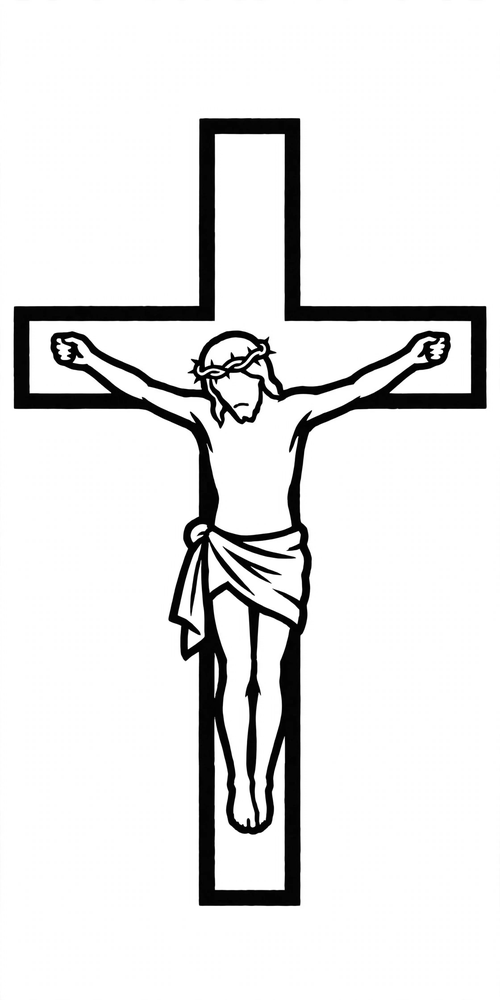
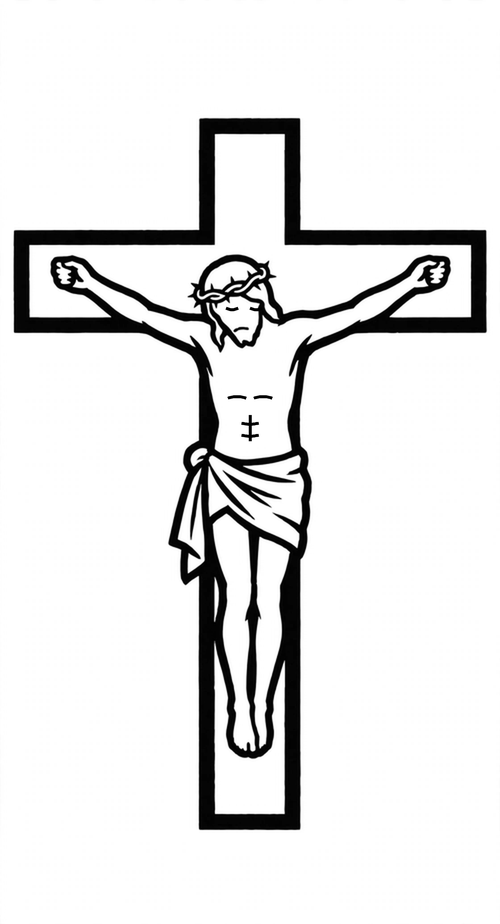
Holy Lighter: trim picker to 11 templates (remove Sacred Heart of Jesus, dove, rosary, Sacred Heart symbol, Jesus I Trust in You); crucifix redrawn with subtle eyes/abs + shorter cross top stub; listing copy refreshed to match

Changed region(s): [[0.0, 0.2424, 0.99, 0.8485], [0.39, 0.0909, 0.6, 0.1515], [0.39, 0.8788, 0.6, 0.9091]]

diff --git a/server.py b/server.py
@@ -1418,16 +1418,16 @@ def seed():
              "/img/products/lighter-religious-crucifix.jpg",
              "A Zippo-style lighter laser engraved with the design of your choice: "
              "saints (Crucifix, Virgin Mary, Carlo Acutis, Saint Joseph, Saint Teresa "
-             "of Avila, Sacred Heart of Jesus), symbols (cross, Holy Spirit dove, "
-             "ichthys, Chi Rho, rosary, Lamb of God, Sacred Heart) and Bible passages "
+             "of Avila), symbols (cross, "
+             "ichthys, Chi Rho, Lamb of God) and Bible passages "
              "\u2014 simple bold-line engravings that read clearly \u2014 or upload your "
              "own image and we engrave it for you. In its gift case, in chrome, blue "
              "or black.",
              "Un briquet style Zippo grav\u00e9 au laser avec le motif de votre choix : "
              "des saints (Crucifix, Vierge Marie, Carlo Acutis, saint Joseph, sainte "
-             "Th\u00e9r\u00e8se d'Avila, Sacr\u00e9-C\u0153ur de J\u00e9sus), des symboles "
-             "(croix, colombe du Saint-Esprit, ichthys, Chi Rho, chapelet, Agneau de "
-             "Dieu, Sacr\u00e9-C\u0153ur) et des passages bibliques \u2014 des gravures en "
+             "Th\u00e9r\u00e8se d'Avila), des symboles "
+             "(croix, ichthys, Chi Rho, Agneau de "
+             "Dieu) et des passages bibliques \u2014 des gravures en "
              "lignes simples et bien lisibles \u2014 ou t\u00e9l\u00e9versez votre propre "
              "image et nous la gravons pour vous. Dans son coffret cadeau, en chrome, "
              "bleu ou noir.",
@@ -1447,22 +1447,32 @@ def seed():
         "WHERE id='holy-lighter' AND description=?",
         ("A Zippo-style lighter laser engraved with the design of your choice: "
          "saints (Crucifix, Virgin Mary, Carlo Acutis, Saint Joseph, Saint Teresa "
-         "of Avila, Sacred Heart of Jesus), symbols (cross, Holy Spirit dove, "
-         "ichthys, Chi Rho, rosary, Lamb of God, Sacred Heart) and Bible passages "
+         "of Avila), symbols (cross, "
+         "ichthys, Chi Rho, Lamb of God) and Bible passages "
          "\u2014 simple bold-line engravings that read clearly \u2014 or upload your "
          "own image and we engrave it for you. In its gift case, in chrome, blue "
          "or black.",
          "Un briquet style Zippo grav\u00e9 au laser avec le motif de votre choix : "
          "des saints (Crucifix, Vierge Marie, Carlo Acutis, saint Joseph, sainte "
-         "Th\u00e9r\u00e8se d'Avila, Sacr\u00e9-C\u0153ur de J\u00e9sus), des symboles "
-         "(croix, colombe du Saint-Esprit, ichthys, Chi Rho, chapelet, Agneau de "
-         "Dieu, Sacr\u00e9-C\u0153ur) et des passages bibliques \u2014 des gravures en "
+         "Th\u00e9r\u00e8se d'Avila), des symboles "
+         "(croix, ichthys, Chi Rho, Agneau de "
+         "Dieu) et des passages bibliques \u2014 des gravures en "
          "lignes simples et bien lisibles \u2014 ou t\u00e9l\u00e9versez votre propre "
          "image et nous la gravons pour vous. Dans son coffret cadeau, en chrome, "
          "bleu ou noir.",
          "A Zippo-style lighter laser engraved with a saint: choose the Crucifix, "
          "the Virgin Mary, Carlo Acutis or Saint Joseph, or upload your own image "
          "and we engrave it for you. In its gift case, in chrome, blue or black."))
+    # 2026-10-22 (evening): Antonio trimmed the picker (Sacred Heart of
+    # Jesus, Holy Spirit dove, rosary, Sacred Heart symbol and Jesus, I
+    # Trust in You removed) — refresh the listing copy to match. Guarded
+    # on the previous copy, same pattern as above.
+    conn.execute(
+        "UPDATE products SET description=?, description_fr=? "
+        "WHERE id='holy-lighter' AND description=?",
+        ('A Zippo-style lighter laser engraved with the design of your choice: saints (Crucifix, Virgin Mary, Carlo Acutis, Saint Joseph, Saint Teresa of Avila), symbols (cross, ichthys, Chi Rho, Lamb of God) and Bible passages — simple bold-line engravings that read clearly — or upload your own image and we engrave it for you. In its gift case, in chrome, blue or black.',
+         "Un briquet style Zippo gravé au laser avec le motif de votre choix : des saints (Crucifix, Vierge Marie, Carlo Acutis, saint Joseph, sainte Thérèse d'Avila), des symboles (croix, ichthys, Chi Rho, Agneau de Dieu) et des passages bibliques — des gravures en lignes simples et bien lisibles — ou téléversez votre propre image et nous la gravons pour vous. Dans son coffret cadeau, en chrome, bleu ou noir.",
+         'A Zippo-style lighter laser engraved with the design of your choice: saints (Crucifix, Virgin Mary, Carlo Acutis, Saint Joseph, Saint Teresa of Avila, Sacred Heart of Jesus), symbols (cross, Holy Spirit dove, ichthys, Chi Rho, rosary, Lamb of God, Sacred Heart) and Bible passages — simple bold-line engravings that read clearly — or upload your own image and we engrave it for you. In its gift case, in chrome, blue or black.'))
     # Holy Lighter gallery: Antonio's four religious mockups (real photos of
     # the engraved lighters) lead it; the picker uses the template artwork.
     for _ph, _srt in (("/img/products/lighter-religious-crucifix.jpg", 0),
@@ -1660,15 +1670,20 @@ def color_label(color, lang="en"):
 
 # Holy Lighter design picker (Antonio 2026-10-22, final selection after
 # reviewing both template batches): easy-to-engrave, instantly recognizable
-# bold-line templates — the one detailed exception is the Sacred Heart of
-# Jesus. Rows are (stored design value, FR label, EN label, option image),
-# grouped saints -> symbols -> Bible passages; "upload your own image"
-# stays as the picker's second mode. The stored value is what lands on
-# the order, exactly like the custom lighter's design choices.
+# bold-line templates. Rows are (stored design value, FR label, EN label,
+# option image), grouped saints -> symbols -> Bible passages; "upload
+# your own image" stays as the picker's second mode. The stored value is
+# what lands on the order, exactly like the custom lighter's design
+# choices. Trimmed later the same evening at Antonio's request (from his
+# screenshots of the live picker): Sacred Heart of Jesus, Holy Spirit
+# Dove, Rosary, Sacred Heart (symbol) and Jesus, I Trust in You removed —
+# their image files stay on disk, just unlisted. The crucifix artwork was
+# also redrawn the same evening (subtle eyes/abs on Jesus, shorter cross
+# top stub); its URL carries ?v=2 to bust phone caches of the old art.
 HOLY_TEMPLATE_GROUPS = [
     ("Saints", "Saints", [
         ("Crucifix", "Crucifix", "Crucifix",
-         "/img/templates/crucifix.png"),
+         "/img/templates/crucifix.png?v=2"),
         ("Virgin Mary", "Vierge Marie", "Virgin Mary",
          "/img/templates/virgin-mary.png"),
         ("Carlo Acutis", "Carlo Acutis", "Carlo Acutis",
@@ -1678,26 +1693,16 @@ HOLY_TEMPLATE_GROUPS = [
         ("Saint Teresa of Avila", "Sainte Thérèse d'Avila",
          "Saint Teresa of Avila",
          "/img/templates/saint-teresa-avila.png"),
-        ("Sacred Heart of Jesus", "Sacré-Cœur de Jésus",
-         "Sacred Heart of Jesus",
-         "/img/templates/sacred-heart-jesus-f2.png"),
     ]),
     ("Symboles", "Symbols", [
         ("Cross", "Croix", "Cross",
          "/img/templates/cross.png"),
-        ("Holy Spirit Dove", "Colombe du Saint-Esprit", "Holy Spirit Dove",
-         "/img/templates/holy-spirit-dove.png"),
         ("Ichthys", "Ichthys", "Ichthys",
          "/img/templates/ichthys.png"),
         ("Chi Rho", "Chi Rho", "Chi Rho",
          "/img/templates/chi-rho.png"),
-        ("Rosary", "Chapelet", "Rosary",
-         "/img/templates/rosary.png"),
         ("Lamb of God", "Agneau de Dieu", "Lamb of God",
          "/img/templates/lamb-of-god.png"),
-        ("Sacred Heart (symbol)", "Sacré-Cœur (symbole)",
-         "Sacred Heart (symbol)",
-         "/img/templates/sacred-heart-symbol-simple.png"),
     ]),
     ("Passages bibliques", "Bible passages", [
         ("Be Not Afraid — Isaiah 41:10", "Be Not Afraid — Isaiah 41:10",
@@ -1705,9 +1710,6 @@ HOLY_TEMPLATE_GROUPS = [
          "/img/templates/verse-be-not-afraid-vertical.png"),
         ("Philippians 4:13", "Philippians 4:13", "Philippians 4:13",
          "/img/templates/verse-philippians-vertical.png"),
-        ("Jesus, I Trust in You", "Jesus, I Trust in You",
-         "Jesus, I Trust in You",
-         "/img/templates/verse-jesus-i-trust-vertical.png"),
     ]),
 ]
 HOLY_TEMPLATES = [row for _gfr, _gen, _rows in HOLY_TEMPLATE_GROUPS
